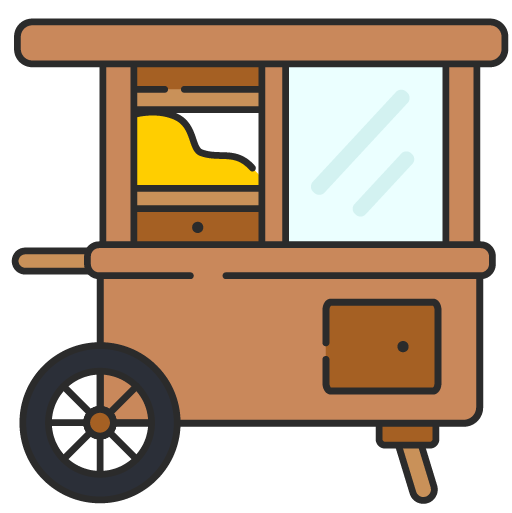
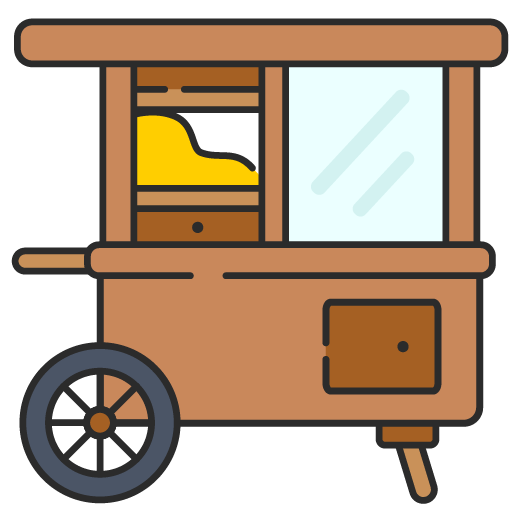
fix profile edit

Changed region(s): [[0.0312, 0.655, 0.3438, 0.9669]]

diff --git a/public/index.html b/public/index.html
@@ -52,11 +52,21 @@
   button { cursor: pointer; font-weight: bold; border: none; color: white; transition: 0.2s; }
   button:active { transform: scale(0.98); }
   
+  /* TOMBOL KONTROL */
   #shareBtn { background-color: #4CAF50; }
   #stopBtn { background-color: #f44336; }
-  #updateBtn { background-color: #2196F3; }
+  #updateBtn { background-color: #2196F3; margin-top: 10px; }
   #cancelEditBtn { background-color: #999; margin-top: 10px;}
-  #editProfilBtn { background-color: #FF9800; margin-right: 10px; display: none; width: auto; padding: 8px 16px; }
+  
+  /* Posisi Tombol Edit Profil di Panel Publik */
+  #editProfilBtn { 
+      background-color: #FF9800; /* Warna Orange */
+      margin-right: 8px; /* Jarak ke tombol tutup */
+      display: none; /* Default sembunyi */
+      width: auto; 
+      padding: 8px 16px; 
+      font-size: 0.9rem;
+  }
   
   #customerLocBtn {
     position: fixed; bottom: 25px; right: 15px; z-index: 999;
@@ -130,13 +140,14 @@
   <label>Menu (pisahkan koma):</label>
   <textarea id="menu" rows="3" placeholder="Nasi Goreng, Mie Rebus..."></textarea>
   
-  <button id="updateBtn" onclick="updateProfil()">💾 Simpan & Update</button>
+  <button id="updateBtn" onclick="updateProfil()">💾 Simpan Profil</button>
   <button id="cancelEditBtn" onclick="cancelEdit()">Batal</button>
 </div>
 
 <div id="customerDetailPanel" class="panel" style="border-top: none;">
     <div class="detail-header">
         <h2 id="dNama" style="font-size: 1.2em; text-align: left; padding: 0;">Nama Gerobak</h2>
+        
         <div style="display: flex; align-items: center;">
             <button id="editProfilBtn" onclick="openEditMode()">✏ Edit Profil</button>
             <button class="close-btn" onclick="closeDetailView()">✕ Tutup</button>
@@ -184,6 +195,7 @@ let currentImageBase64 = "";
 let myCurrentLat = null; 
 let myCurrentLng = null; 
 
+// Menggunakan icon online agar tidak broken image jika file lokal tidak ada
 const normalIcon = L.icon({
   iconUrl: "image/gerobak.png", 
   iconSize: [42, 42], iconAnchor: [21, 42], popupAnchor: [0, -42]
@@ -209,22 +221,19 @@ if (currentRole === 'customer') {
     document.getElementById("customerLocBtn").style.display = "block";
     
     // CUSTOMER AUTO LOGIN ANONYMOUS
-    // Ini penting agar customer dianggap "user sah" oleh Firebase dan bisa baca data
     auth.signInAnonymously().catch((error) => {
         console.error("Gagal login customer anonim:", error);
     });
 
 } else if (currentRole === 'vendor') {
-    // Tampilan Vendor
-    // Vendor harus login via email/pass di halaman login, jadi di sini kita tunggu auth state
+    // Tampilan Vendor menunggu auth state
 }
 
-// === 3. LISTENER AUTHENTICATION (JANTUNG KONEKSI) ===
+// === 3. LISTENER AUTHENTICATION ===
 auth.onAuthStateChanged(user => {
   currentUser = user; 
 
   if (!user && currentRole === 'vendor') {
-      // Jika Vendor tidak login, tendang ke halaman login
       window.location.href = "login.html";
       return;
   }
@@ -232,14 +241,12 @@ auth.onAuthStateChanged(user => {
   if (user) {
       console.log("User terhubung. Role:", currentRole, "UID:", user.uid);
       
-      // Baik Customer (Anonim) maupun Vendor (Email) akan masuk sini
-      // Inisialisasi Peta setelah koneksi Firebase stabil
       initMap();
 
-      // Logika Khusus Vendor
       if (currentRole === 'vendor') {
           document.getElementById("myGerobakBtn").style.display = "block";
           document.getElementById("logoutBtnHeader").style.display = "block";
+          // Muat data awal untuk form
           loadMyFormData(user.uid);
       }
   }
@@ -251,18 +258,15 @@ function logout() {
 
 // === 4. LOGIKA PETA & DATA ===
 function initMap() {
-    if(map) return; // Jangan init ulang
+    if(map) return; 
     
-    // Default Jakarta, nanti akan update sesuai data
     map = L.map('map', { zoomControl: false }).setView([-6.200, 106.816], 13);
     L.control.zoom({ position: 'topright' }).addTo(map);
     L.tileLayer('https://{s}.tile.openstreetmap.org/{z}/{x}/{y}.png', { maxZoom: 19, attribution: '© OpenStreetMap' }).addTo(map);
     
-    // Pane khusus agar lingkaran lokasi customer selalu di bawah icon gerobak
     map.createPane('customerPane');
     map.getPane('customerPane').style.zIndex = 650;
     
-    // Panggil data gerobak
     loadVendorsOnMap(); 
 }
 
@@ -270,7 +274,6 @@ function initMap() {
 document.getElementById("shareBtn").onclick = () => {
   if (!navigator.geolocation) return alert("Browser tidak mendukung Geolocation");
   
-  // Ambil posisi awal segera
   navigator.geolocation.getCurrentPosition(pos => {
       myCurrentLat = pos.coords.latitude;
       myCurrentLng = pos.coords.longitude;
@@ -280,7 +283,6 @@ document.getElementById("shareBtn").onclick = () => {
   document.getElementById("shareBtn").style.display = "none";
   document.getElementById("stopBtn").style.display = "block";
   
-  // Mulai Watch Position
   watchID = navigator.geolocation.watchPosition(pos => {
     myCurrentLat = pos.coords.latitude; 
     myCurrentLng = pos.coords.longitude;
@@ -296,11 +298,7 @@ document.getElementById("shareBtn").onclick = () => {
   }, err => { 
       alert("Gagal mengakses GPS: " + err.message); 
       stopSharing(); 
-  }, { 
-      enableHighAccuracy: true,
-      timeout: 10000,
-      maximumAge: 0
-  });
+  }, { enableHighAccuracy: true });
 };
 
 document.getElementById("stopBtn").onclick = stopSharing;
@@ -311,17 +309,15 @@ function stopSharing() {
   if(currentUser) {
       db.ref("vendors/" + currentUser.uid).update({ isLive: false });
   }
-
   document.getElementById("shareBtn").style.display = "block";
   document.getElementById("stopBtn").style.display = "none";
   alert("Lokasi live dimatikan.");
 }
 
-// === MENAMPILKAN VENDOR DI PETA (UNTUK SEMUA USER) ===
+// === MENAMPILKAN VENDOR DI PETA ===
 function loadVendorsOnMap() {
   if(!map) return;
   
-  // Dengar perubahan data 'vendors' secara realtime
   db.ref("vendors").on("value", snap => {
     const data = snap.val();
     let activeVendorIds = [];
@@ -330,7 +326,6 @@ function loadVendorsOnMap() {
         Object.keys(data).forEach(id => {
           const v = data[id];
           
-          // Syarat tampil: Ada koordinat DAN isLive = true
           if (!v.lat || !v.lng || v.isLive !== true) return;
           
           activeVendorIds.push(id); 
@@ -339,8 +334,6 @@ function loadVendorsOnMap() {
           
           let displayName = v.nama || "Gerobak";
           
-          // Tandai jika ini gerobak sendiri (hanya untuk Vendor login)
-          // Jika customer (anonim), id != currentUser.uid
           if (currentUser && !currentUser.isAnonymous && id === currentUser.uid) {
              displayName += " (Anda)";
              myCurrentLat = lat;
@@ -350,13 +343,11 @@ function loadVendorsOnMap() {
           let currentIcon = (id === selectedVendorId) ? bigIcon : normalIcon;
 
           if (vendorMarkers[id]) {
-            // Update posisi marker yang sudah ada
             vendorMarkers[id].setLatLng([lat, lng]);
             vendorMarkers[id].setIcon(currentIcon);
             vendorMarkers[id].options.vendorData = v; 
             vendorMarkers[id].bindPopup(`<b>${displayName}</b>`);
           } else {
-            // Buat marker baru
             const newMarker = L.marker([lat, lng], { icon: currentIcon, vendorData: v }).addTo(map);
             newMarker.bindPopup(`<b>${displayName}</b>`);
             
@@ -366,6 +357,7 @@ function loadVendorsOnMap() {
                 const vendorId = id; 
                 
                 highlightVendorIcon(vendorId);
+                // Menampilkan profil publik (dan tombol edit jika pemilik)
                 showVendorDetail(dataGerobak, vendorId);
                 map.flyTo([lat, lng], 16, { animate: true, duration: 0.5 });
             });
@@ -375,7 +367,6 @@ function loadVendorsOnMap() {
         });
     }
     
-    // Hapus marker yang sudah tidak live / offline
     Object.keys(vendorMarkers).forEach(existingId => {
         if (!activeVendorIds.includes(existingId)) {
             map.removeLayer(vendorMarkers[existingId]);
@@ -391,17 +382,24 @@ function highlightVendorIcon(id) {
     if (vendorMarkers[id]) vendorMarkers[id].setIcon(bigIcon);
 }
 
-// === VENDOR: PROFIL SAYA ===
+// === VENDOR: FUNGSI UTAMA (HOME & EDIT) ===
+
+// 1. Tampilkan Profil Publik Sendiri (Dipanggil tombol Gerobak Saya / Simpan)
 function showMyPublicProfile() {
     if (!currentUser || currentUser.isAnonymous) return;
     
     db.ref("vendors/" + currentUser.uid).once("value").then(snap => {
         const v = snap.val();
         if (v) {
+            // Icon jadi besar
             highlightVendorIcon(currentUser.uid);
+            
+            // Recenter Map (Jika ada lokasi)
             if (v.lat && v.lng) {
                 map.flyTo([v.lat, v.lng], 16, { animate: true, duration: 0.5 });
             }
+            
+            // Tampilkan Profil Publik (bukan form edit)
             showVendorDetail(v, currentUser.uid);
         } else {
             alert("Profil belum ada. Silakan Edit Profil.");
@@ -410,7 +408,52 @@ function showMyPublicProfile() {
     });
 }
 
-// === VENDOR: EDIT DATA ===
+// 2. Buka Form Edit (Dipanggil tombol Edit Profil)
+function openEditMode() {
+    if (!currentUser) return;
+
+    // Pastikan form terisi data terbaru dari DB sebelum ditampilkan
+    loadMyFormData(currentUser.uid);
+
+    document.getElementById("customerDetailPanel").style.display = "none"; // Tutup publik
+    document.getElementById("vendorEditPanel").style.display = "block"; // Buka edit
+    document.getElementById("map").style.height = "50vh";
+    
+    if(currentUser && !currentUser.isAnonymous) highlightVendorIcon(currentUser.uid);
+}
+
+// 3. Batalkan Edit
+function cancelEdit() {
+    showMyPublicProfile(); // Kembali ke tampilan publik tanpa simpan
+}
+
+// 4. Simpan & Kembali ke Profil Publik
+function updateProfil() {
+  if (!currentUser || currentUser.isAnonymous) return;
+  const updateBtn = document.getElementById("updateBtn");
+  updateBtn.innerText = "Menyimpan..."; updateBtn.disabled = true;
+  
+  db.ref("vendors/" + currentUser.uid).update({
+    nama: document.getElementById("namaGerobak").value,
+    status: document.getElementById("status").value,
+    jamBuka: document.getElementById("jamBuka").value,
+    jamTutup: document.getElementById("jamTutup").value,
+    menu: document.getElementById("menu").value.split(","),
+    gambar: currentImageBase64
+  }).then(() => {
+      alert("Profil berhasil disimpan!");
+      updateBtn.innerText = "💾 Simpan Profil"; updateBtn.disabled = false;
+      
+      // SETELAH SIMPAN, BALIK KE PROFIL PUBLIK YANG TERUPDATE
+      showMyPublicProfile(); 
+      
+  }).catch(err => {
+      alert("Gagal update: " + err.message);
+      updateBtn.innerText = "💾 Simpan Profil"; updateBtn.disabled = false;
+  });
+}
+
+// Helper: Muat Data ke Input Form
 function loadMyFormData(uid) {
     db.ref("vendors/" + uid).once("value").then(snap => {
         const v = snap.val();
@@ -428,46 +471,16 @@ function loadMyFormData(uid) {
     });
 }
 
-function openEditMode() {
-    document.getElementById("customerDetailPanel").style.display = "none"; 
-    document.getElementById("vendorEditPanel").style.display = "block"; 
-    document.getElementById("map").style.height = "50vh";
-    if(currentUser && !currentUser.isAnonymous) highlightVendorIcon(currentUser.uid);
-}
-
-function cancelEdit() {
-    showMyPublicProfile(); 
-}
-
-function updateProfil() {
-  if (!currentUser || currentUser.isAnonymous) return;
-  const updateBtn = document.getElementById("updateBtn");
-  updateBtn.innerText = "Menyimpan..."; updateBtn.disabled = true;
-  
-  db.ref("vendors/" + currentUser.uid).update({
-    nama: document.getElementById("namaGerobak").value,
-    status: document.getElementById("status").value,
-    jamBuka: document.getElementById("jamBuka").value,
-    jamTutup: document.getElementById("jamTutup").value,
-    menu: document.getElementById("menu").value.split(","),
-    gambar: currentImageBase64
-  }).then(() => {
-      alert("Profil berhasil diupdate!");
-      updateBtn.innerText = "💾 Simpan & Update"; updateBtn.disabled = false;
-      showMyPublicProfile();
-  }).catch(err => {
-      alert("Gagal update: " + err.message);
-      updateBtn.innerText = "💾 Simpan & Update"; updateBtn.disabled = false;
-  });
-}
-
-// === TAMPILAN DETAIL (PUBLIC VIEW) ===
+// === TAMPILAN DETAIL PUBLIK ===
 function showVendorDetail(v, vendorId) {
+    // Pastikan panel edit tertutup
     document.getElementById("vendorEditPanel").style.display = "none";
+    
     const panel = document.getElementById("customerDetailPanel");
     const mapDiv = document.getElementById("map");
     mapDiv.style.height = "50vh"; 
     
+    // Isi Data
     document.getElementById("dNama").innerText = v.nama || "Tanpa Nama";
     
     const statusEl = document.getElementById("dStatus");
@@ -492,12 +505,14 @@ function showVendorDetail(v, vendorId) {
         });
     } else { menuDiv.innerText = "Belum ada info menu."; }
     
-    // Tombol Edit hanya muncul jika Vendor LOGIN dan melihat gerobak SENDIRI
+    // LOGIKA TOMBOL EDIT
     const editBtn = document.getElementById("editProfilBtn");
+    
+    // Cek: Apakah user login sebagai vendor DAN melihat profilnya sendiri?
     if (currentRole === 'vendor' && currentUser && !currentUser.isAnonymous && vendorId === currentUser.uid) {
-        editBtn.style.display = "block";
+        editBtn.style.display = "block"; // Munculkan tombol Edit
     } else {
-        editBtn.style.display = "none";
+        editBtn.style.display = "none"; // Sembunyikan tombol Edit (untuk orang lain)
     }
 
     panel.style.display = "block";
@@ -512,6 +527,7 @@ function closeDetailView() {
     setTimeout(() => map.invalidateSize(), 400);
 }
 
+// UPLOAD IMAGE
 function handleImageUpload(input) {
     if (input.files && input.files[0]) {
         const file = input.files[0];
